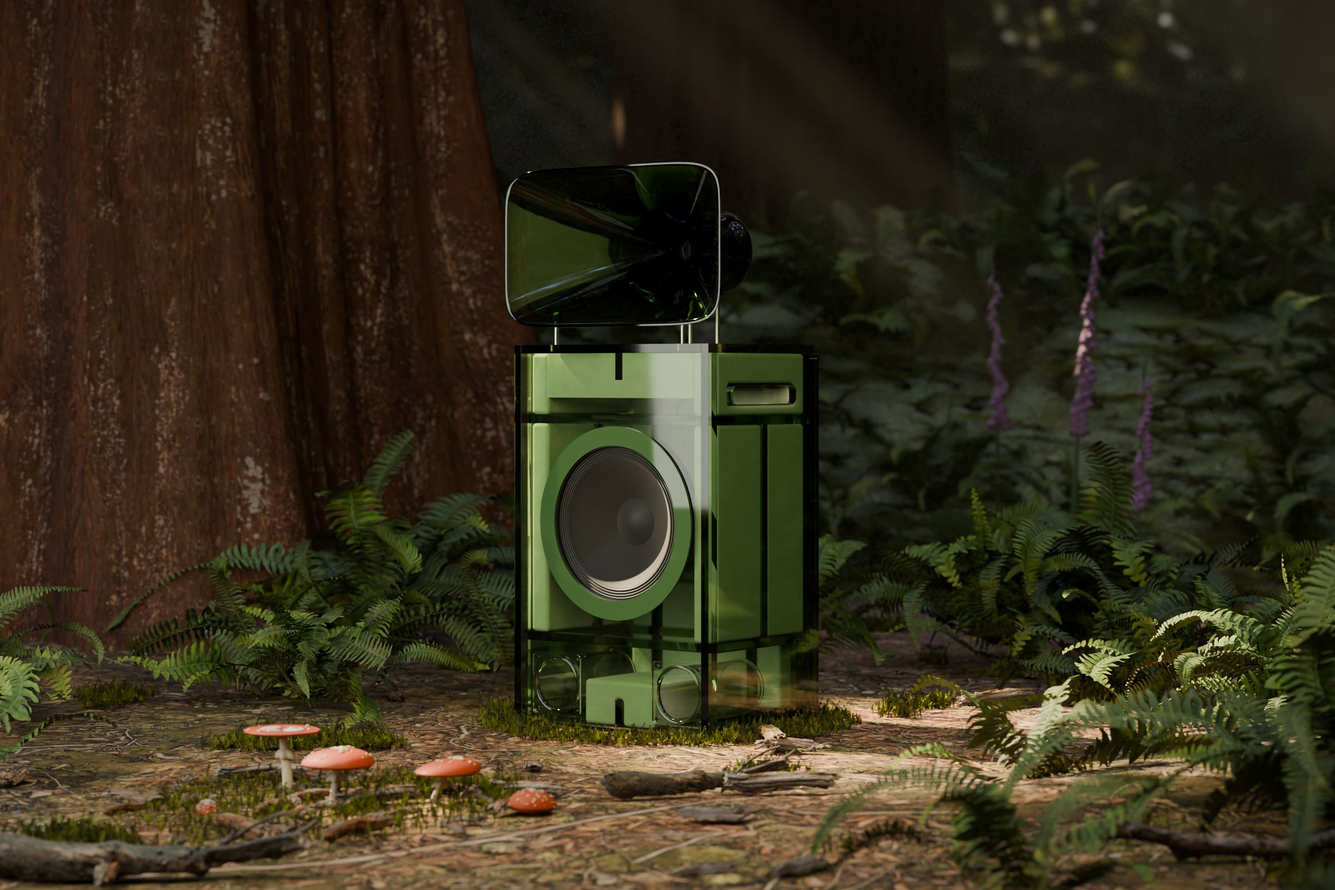
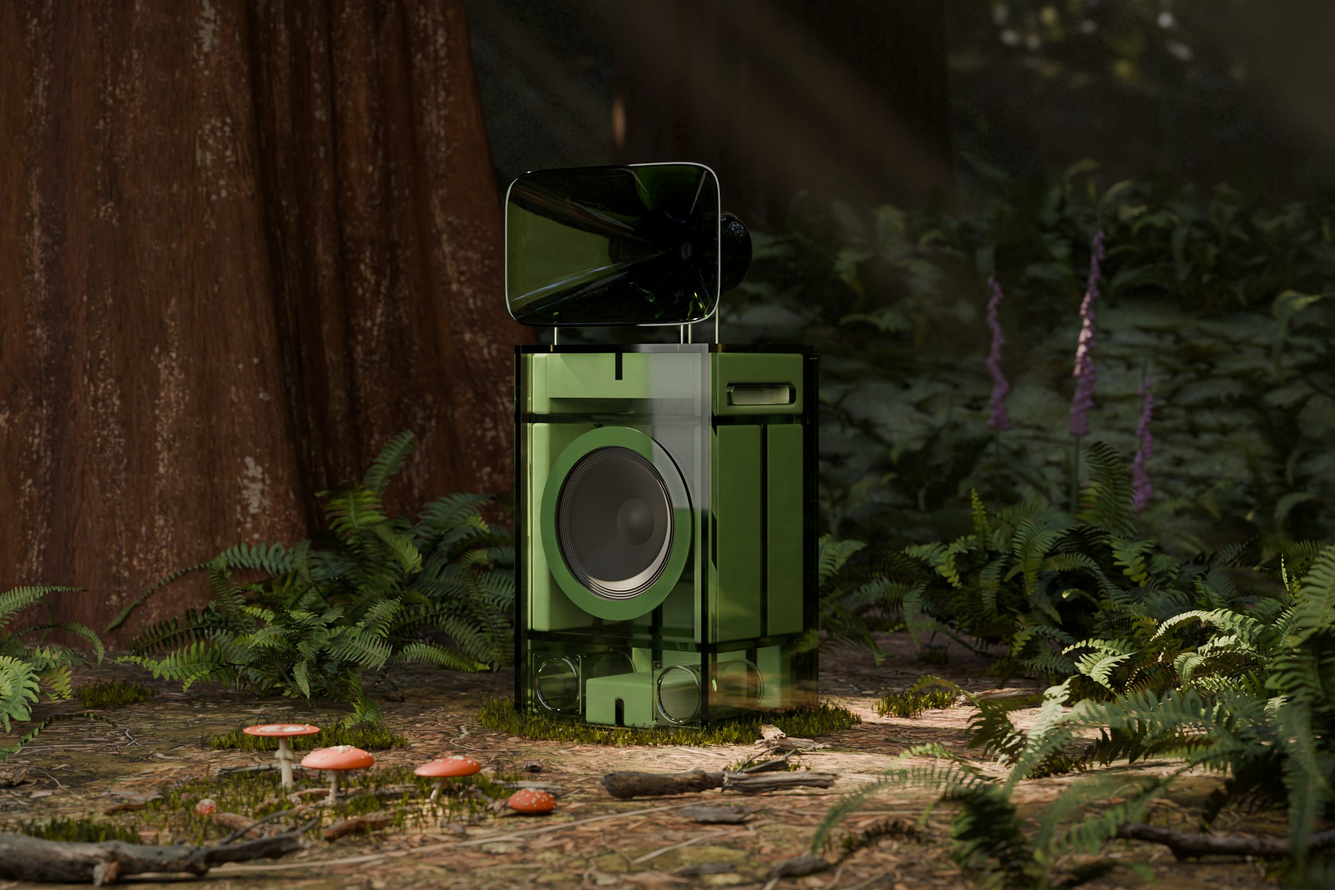
barkhorn site: Poison's frames with the corner streak compressed (r31-element-poison-a4 653ad29)
The milky wash down the clear front corner halved, post only, the caps as rendered: ahead of the frame without
it on both sizes (+0.25, +0.3). README and the critic log note it, and look book version 53.

Claude-Session: https://claude.ai/code/session_016Hs9fK3h2VwVeRXpa18b1z

Changed region(s): [[0.4688, 0.375, 0.5312, 0.5938], [0.4688, 0.5938, 0.5, 0.6562]]

diff --git a/spinoffs/barkhorn/README.md b/spinoffs/barkhorn/README.md
@@ -103,7 +103,7 @@ speakers lit from below and on a night facade, and each Cloud in its element, ph
 | "The Fog icon doesn't really come through on the background. The spinning globe has a square background that comes through when not on solid black or white." | **The icons and the header's globe cut out to transparent pictures** (`web.py` `cutout`): each icon from its paper and night renders, Fog's edges darkened from its night render so it reads on paper; the globe as an AVIF and WebP sheet, so it no longer needs the blend mode Safari drops inside the frosted header. |
 | "The good company section isn't completed yet. Get rid of the rug option." | **Two companions, no rug**, shown as sketches until their second designs are built (next rows). |
 | "The hero images on the product detail pages are blurred for some reason." | **Fixed**: the close-ups' blurred fill was painting over the photograph once its fade ended (a transform's stacking order); it now sits behind, and the photograph in its element never has one. |
-| "The acid rain splashes from dropping into the water are a little off for some reason." "Poison isn't reading as poisonous. Needs shrooms around it, or a snake, or both." | **Acid's rain lands as rings** in the water's surface, with small crowns only where it is deep enough, and a near layer of falling rain (blind, the new water beat the old 5.5 to 3.5). **Poison, five tries**: B (fly agarics at every age, death caps, a pit viper on a mossy stump, a dart frog, foxgloves, nightshade) read as toys and lost to A; A2 (A's floor with agarics and foxgloves) lost by half a point; A3 (A's light with three small, weathered agarics at the fern stand's foot and two foxgloves) beat A in blind duels on both frames (+0.45, +0.1), but at the site's sizes its poisons only read on a close look. **A4 is on the site**: a troop of fly agarics at true scale on the open duff in the foreground, every age from a button in its veil to an old cap with its rim torn, and three foxgloves in the haze. Shown it at 600 px and told nothing, a judge names them ("small orange mushrooms in the foreground", "purple foxgloves"), where A3's judge saw only ferns. In full-size blind duels it is half a point behind A3 on both frames, inside the margin for the owner's ask; the judges' fault is the caps, the brightest thing in the frame and smooth, and a retouch of them is being tried. The speaker page says where it stands: "behind a troop of fly agarics, among ferns and foxgloves". |
+| "The acid rain splashes from dropping into the water are a little off for some reason." "Poison isn't reading as poisonous. Needs shrooms around it, or a snake, or both." | **Acid's rain lands as rings** in the water's surface, with small crowns only where it is deep enough, and a near layer of falling rain (blind, the new water beat the old 5.5 to 3.5). **Poison, five tries**: B (fly agarics at every age, death caps, a pit viper on a mossy stump, a dart frog, foxgloves, nightshade) read as toys and lost to A; A2 (A's floor with agarics and foxgloves) lost by half a point; A3 (A's light with three small, weathered agarics at the fern stand's foot and two foxgloves) beat A in blind duels on both frames (+0.45, +0.1), but at the site's sizes its poisons only read on a close look. **A4 is on the site**: a troop of fly agarics at true scale on the open duff in the foreground, every age from a button in its veil to an old cap with its rim torn, and three foxgloves in the haze. Shown it at 600 px and told nothing, a judge names them ("small orange mushrooms in the foreground", "purple foxgloves"), where A3's judge saw only ferns. In full-size blind duels it is half a point behind A3 on both frames, inside the margin for the owner's ask; the judges' fault is the caps, the brightest thing in the frame and smooth. A retouch turning them toward scarlet read as pink and was left out; the milky streak down the clear front corner, compressed, beat the frame without it on both sizes (+0.25, +0.3), and the site carries it. The speaker page says where it stands: "behind a troop of fly agarics, among ferns and foxgloves". |
 | "I'm not loving the record player and lamp. I want a squared record player similar to a debut or orbit but with a clear body and matching cover." "the brian eno one and the audio technica hotaru are acrylic I think and look really cool when backlit, but are way too expensive." "The lamp, I liked the squared on you had. Or cylindrical could be cool. I like spherical too. I also am a fan of shag lamps." | **Companions v2, blocked out for the owner's pick** (`companions/concepts2.py`, `renders/2026-10-18/barkhorn/companions2/concepts/sheet.png`): record players R1 Slab, R2 Sandwich and R3 Float; lamps L1 Lantern, L4 Cylinder, L5 Sphere, L6 Shag (the seventies fibre-optic fountain) and L7 Fringe (the literal shag: a fringe of hanging acrylic strands). |
 | "One the detail pages, what do you think about moving the icon from the left of atmosphere, so the text and left align, and making it bigger and putting it to the right of the speaker name?" | **Done**, on the speaker's page and then on the colour cards. |
 | "For fog, what if it was set in a classic foggy SF setting, overlooking the golden gate and the city from marin headlands"; then "Forget the SF fog idea. If we can't make it look like a real image of the real bridge or real sutro tower, it will look too obviously fake." | **Fog C was built and then stopped**: the Golden Gate, the city and Sutro Tower from the Marin Headlands, in proofs only. Fog keeps its headland above the fog. |
@@ -244,7 +244,7 @@ Three of the campaign critics named the speaker's own surfaces:
   The site takes each as it lands: `web.py` prefers round 31's hero, room and in-their-element pictures once they are in the repository, with their phone frames below 700 px. The home page shows all eight in a strip.
 - **The speaker's page, after the owner's note** ("I want the landscape photos to be the hero for each speaker ... Then users can paginate through all of the other images the way they would shopping online for a product"). Each speaker's page now opens on its photograph in its element (its phone frame on phones), captioned with where it stands, and pages through the rest as a shop does: arrows, a count, a swipe, the arrow keys and a strip of thumbnails. The stage keeps the photograph's shape (3:2, and 4:5 on phones), and every other picture is carried to its edges on its own ground, so the tall product shots stand in a seamless field rather than a box.
 - **Render helpers.** A final takes two to three hours on one session's four cores, so the slow ones are split. A helper session renders the frames it is given from the set's own commit, pushes them to its own branch, and stops: the portraits of Ice, Ember, Fog, Smoke and the room, the hero's phone frame, the studio's queue across five more, one strip of Ember's landscape (rendered in four strips on two boxes, stitched, then finished once), and one box for each catalogue colour and each pair of uplit frames. Twelve of them, started at 13:45, never ran: the commits they were given had not reached GitHub when they were made. They were found and started again at 15:55, from full commit names.
-- **The look book** (version 50): a page for each colour in its element, Cumulus and Bell, the round-31 room with its bars measured again (the sideboard 560 mm), and the red Cloud's name, Ember, wherever Flare was left. The Bark and Crag pages, set aside since round 17, are hidden rather than shown last. Version 51 swaps in Haze's re-render and Fog's headland. Version 52 carries the new drivers: the eight colour pages (their fronts cut 1:2 from the catalogue's 4:5 frames, as the site's cards, each page's paper sampled again from its photograph), the eight pages in their element (Poison's now A3) and the horn from the side and from behind.
+- **The look book** (version 50): a page for each colour in its element, Cumulus and Bell, the round-31 room with its bars measured again (the sideboard 560 mm), and the red Cloud's name, Ember, wherever Flare was left. The Bark and Crag pages, set aside since round 17, are hidden rather than shown last. Version 51 swaps in Haze's re-render and Fog's headland. Version 52 carries the new drivers: the eight colour pages (their fronts cut 1:2 from the catalogue's 4:5 frames, as the site's cards, each page's paper sampled again from its photograph), the eight pages in their element (Poison's now A3) and the horn from the side and from behind. Version 53 turns Poison's page to A4, its troop of fly agarics.
 - **Planet EARF** (round 32), the owner's acrylic listening bar in San Francisco, has begun in its own session on the `r32-planet` branch, where the brief and its sourced research are in `planet/`. After the owner's note of 2026-10-19 ("The bar is a little too sterile and open, and that much space in SF is unlikely. It's gotta be cozier, including cozier, warmer lighting. I also don't love the overt rainbow coloring. It's too Castro for SF.") it is being drawn again as a den (round 33): a 20 ft frontage, one long, narrow room with a 1.5 m aisle, warm practical light at about 3000 K, and one colour of speaker to a frame. The owner's second note ("I still want a lot of acrylic features, just not rainbow everywhere. The brick is unlikely to happen in SF ... Cement walls ... wall screens behind large acrylic panels ... suggestive hands pressed up against fogged glass, the fogged silhouette of a woman dancing, alien/foreign objects like the movie Arrival ... lots of cement, some wood beams and features, and steel/iron features ... Dimly lit too, but not to the point that it's hard to see") makes round 34: board-formed concrete, Douglas fir beams and blackened steel, no brick; acrylic in the line's clear, frosted and smoked tints only, thick and edge-polished; screens behind large frosted panels in the concrete showing those images; dim but legible; and a critic and material set made for intimate interiors.
 
 ### The site's deployments

diff --git a/critic/LOG.md b/critic/LOG.md
@@ -658,7 +658,7 @@ its finals from the best rig, and put them to a blind duel against the runner-up
 | Poison | A: a redwood rainforest | 5.5, 5.5, 4.5, 5.0, 5.5, 5.0, 6.0, 5.8, 5.5 | 6.5 | p7, 6.5 | the horn crushed against the ferns; the trunk flat; toy-like agarics |
 | Poison | A2: made poisonous (the owner: "Poison isn't reading as poisonous"): A's set, light and camera, with fly agarics and foxgloves further back; the sun disc 0.6 to 2 degrees to soften the horn's shadow on the woofer ring | 5.5, 6.0 | 6.2 and 6.0 (landscape), 6.0 (phone) | lost to A on every judge, landscape 6.2 to 6.8 and 6.0 to 6.5, phone 6.0 to 6.5 twice (A2 0.55 and 0.5 behind: A stays) | the agarics toy-like CG, the reddest thing in the frame; the foxgloves strings of pink beads; the 2-degree sun blurred A's light shafts; its one win the fuller ferns at the trunk; a hard shadow band across the woofer bay caps both. A3 (sun back to 0.6, fewer duller agarics, real foxglove bells) proofing |
 | Poison | A3: A's floor with its poisons, quietly (the owner's ask again): A's sun kept at 0.6 degrees, the woofer bay filled with A's bounce, three small dull agarics in shade at the fern stand's foot, two foxgloves with real bells in the haze | 6.1 (the proof duel, against A's 6.35) | 6.4 and 6.6 (landscape), 7.0 and 6.2 (phone) | over A on both frames, three judges of four (landscape 6.5 to 6.05, phone 6.6 to 6.5): up | the brighter cabinet won it; the agarics too saturated by the cabinet's foot (toy-like to two judges); one judge saw the foxgloves as wobbly CG stalks; at the site's sizes (1200, 600 and 640 px) the poisons are a few pixels, so the frame is better but still doesn't read as poisonous at a glance |
-| Poison | A4: the poisons where the eye meets them (the owner's ask a third time): A3's rig, with a troop of fly agarics at true scale on the open duff at the foreground's left, in a dapple of their own and at every age, and three foxgloves at uneven heights in the haze, the tallest in a narrow shaft; a read test added (one sentence at 600 px from a judge told nothing: A3 fails it, every A4 proof passes) | proof duels against A3: −0.55, −0.5, −0.35 (p1, p3, p4) | 6.0 and 6.0 (landscape), 6.5 and 6.0 (phone) | A3 preferred by all four judges, A4 −0.5 on both frames (landscape 6.0 to 6.5, phone 6.25 to 6.75): an owner ask inside the half-point margin, so up | the caps the most saturated thing in the frame, smooth CG props that pull the eye; three judges found the foxgloves too many or too bright for the horn's height; the hot reflection down the clear front corner over the woofer's right edge (in A3 too); a retouch of the caps and that streak, post only, is being tried against both |
+| Poison | A4: the poisons where the eye meets them (the owner's ask a third time): A3's rig, with a troop of fly agarics at true scale on the open duff at the foreground's left, in a dapple of their own and at every age, and three foxgloves at uneven heights in the haze, the tallest in a narrow shaft; a read test added (one sentence at 600 px from a judge told nothing: A3 fails it, every A4 proof passes) | proof duels against A3: −0.55, −0.5, −0.35 (p1, p3, p4) | 6.0 and 6.0 (landscape), 6.5 and 6.0 (phone) | A3 preferred by all four judges, A4 −0.5 on both frames (landscape 6.0 to 6.5, phone 6.25 to 6.75): an owner ask inside the half-point margin, so up | the caps the most saturated thing in the frame, smooth CG props that pull the eye; three judges found the foxgloves too many or too bright for the horn's height; the hot reflection down the clear front corner over the woofer's right edge (in A3 too); a post-only retouch: the caps turned toward scarlet read as pink to three judges of four (left out); the streak compressed alone beat A4 on both frames (+0.25 and +0.3, four judges of four), so the finals carry it |
 | Ice | A: snow country at blue hour | 5.5, 6.0, 6.5, 6.5, 6.0, 5.5, 7.0, 6.5, 7.0 | 7.0 | over B, 2 to 1 (6.5 to 5.8) | the base sunk in the drift; a dark patch beside it (fixed); a flat blue grade |
 | Ice | B: Diamond Beach at sunrise | 5.5, 5.5, 5.5, 5.0, 5.5, 5.5, 5.5 | 5.8 | beach over cave, 6.0 to 4.5 | backlit to dark navy; the throat crushed with green fringes; the wet sand a mirror |
 | Haze | A: a lavender field at dusk | 5.5, 6.0, 6.0, 6.0, 5.5, 5.5, 6.0, 5.5 | 6.0 | sunset over afterglow, 6.0 to 5.0; lost to B, 1 to 2 (5.9 to 6.2) | the throat dark; the ground crushed at dusk; the lavender one height; in the duel, the horn blown to pale pink by the sun behind it |
